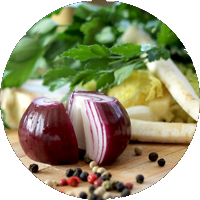
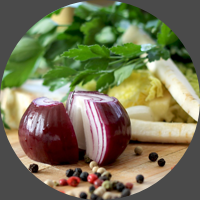
small fixed

diff --git a/css/style.css b/css/style.css
@@ -137,7 +137,7 @@ img{
     height: 200px;
     padding: 0 1%;
     margin-bottom: 20px;
-    
+    border-radius: 50%;
 }
 .sec-01 h3{
     font-family: MicrosoftJhengHeiRegular;
